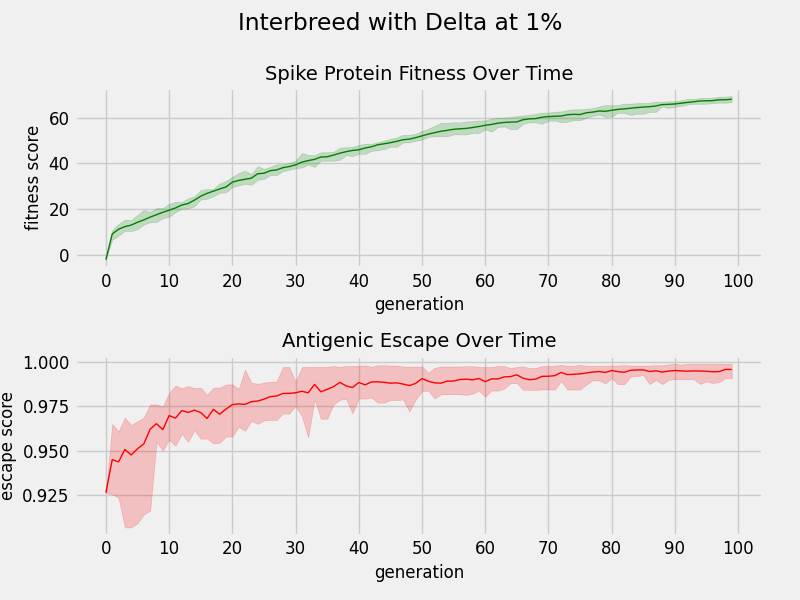
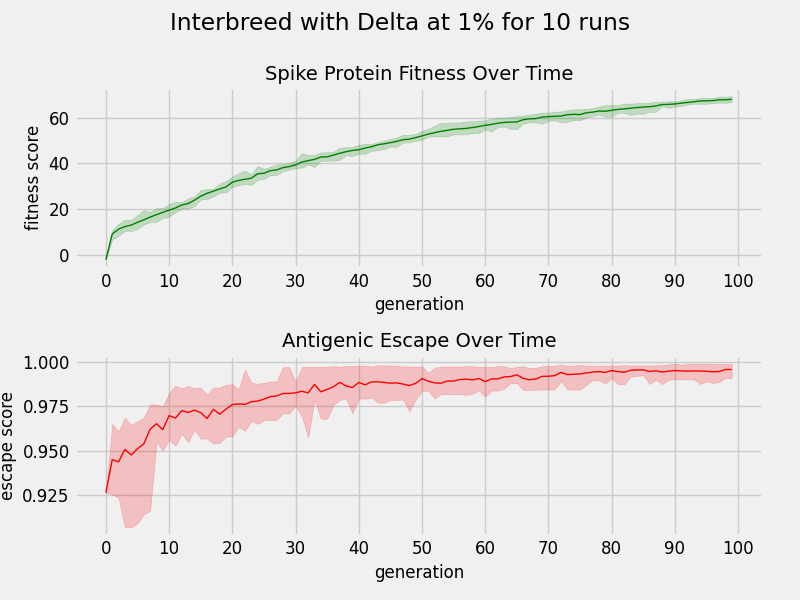
Change titles of graphs

Changed region(s): [[0.2188, 0.0, 0.7812, 0.06]]

diff --git a/analysis_jaime.py b/analysis_jaime.py
@@ -33,7 +33,7 @@ def plot_fitness_escape_over_time(name, prob, fit_low, fit_high, fit_avg, esc_lo
     fig = plt.figure(figsize=(8, 6))
     fit_plot = fig.add_subplot(2, 1, 1)
     esc_plot = fig.add_subplot(2, 1, 2)
-    fig.suptitle(f"Interbreed with {name.capitalize()} at {int(float(prob)*100)}%")
+    fig.suptitle(f"Interbreed with {name.capitalize()} at {int(float(prob)*100)}% for 10 runs")
     fit_plot.set_title("Spike Protein Fitness Over Time")
     esc_plot.set_title("Antigenic Escape Over Time")
 
